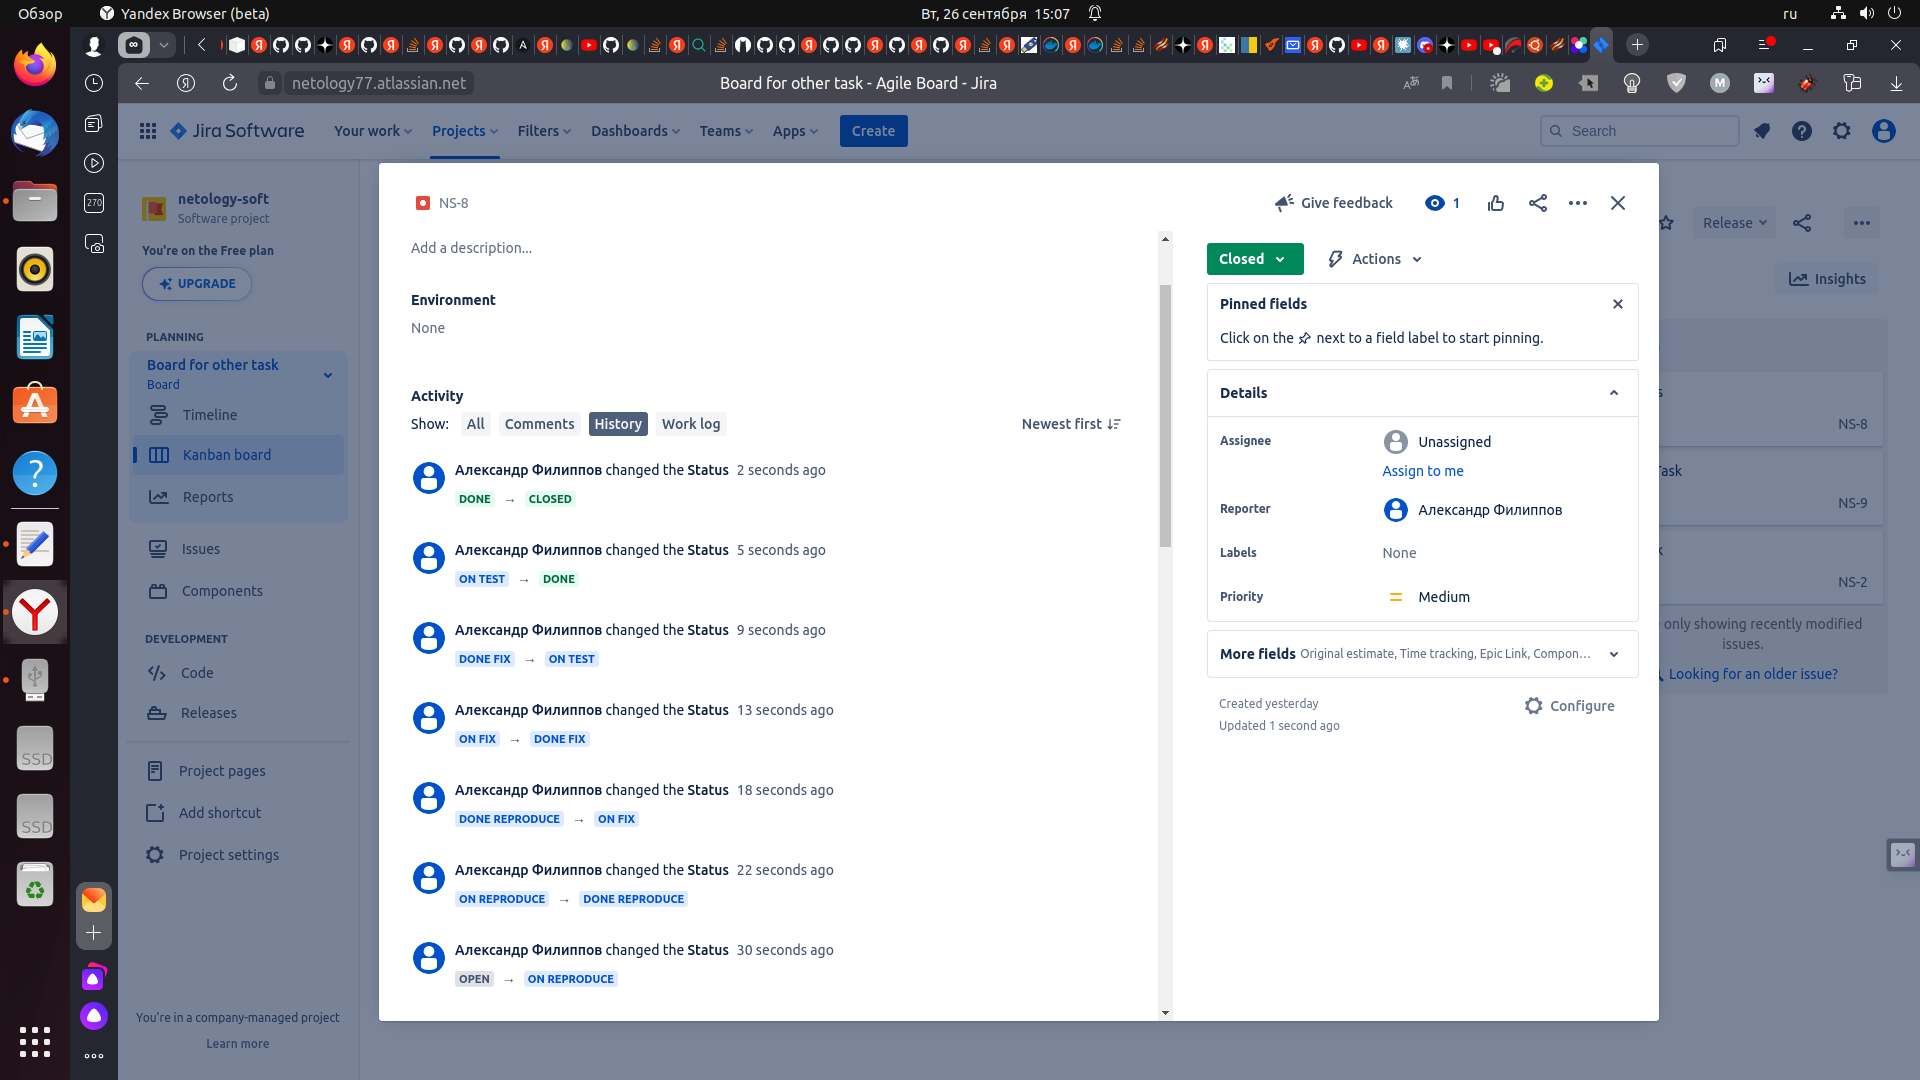
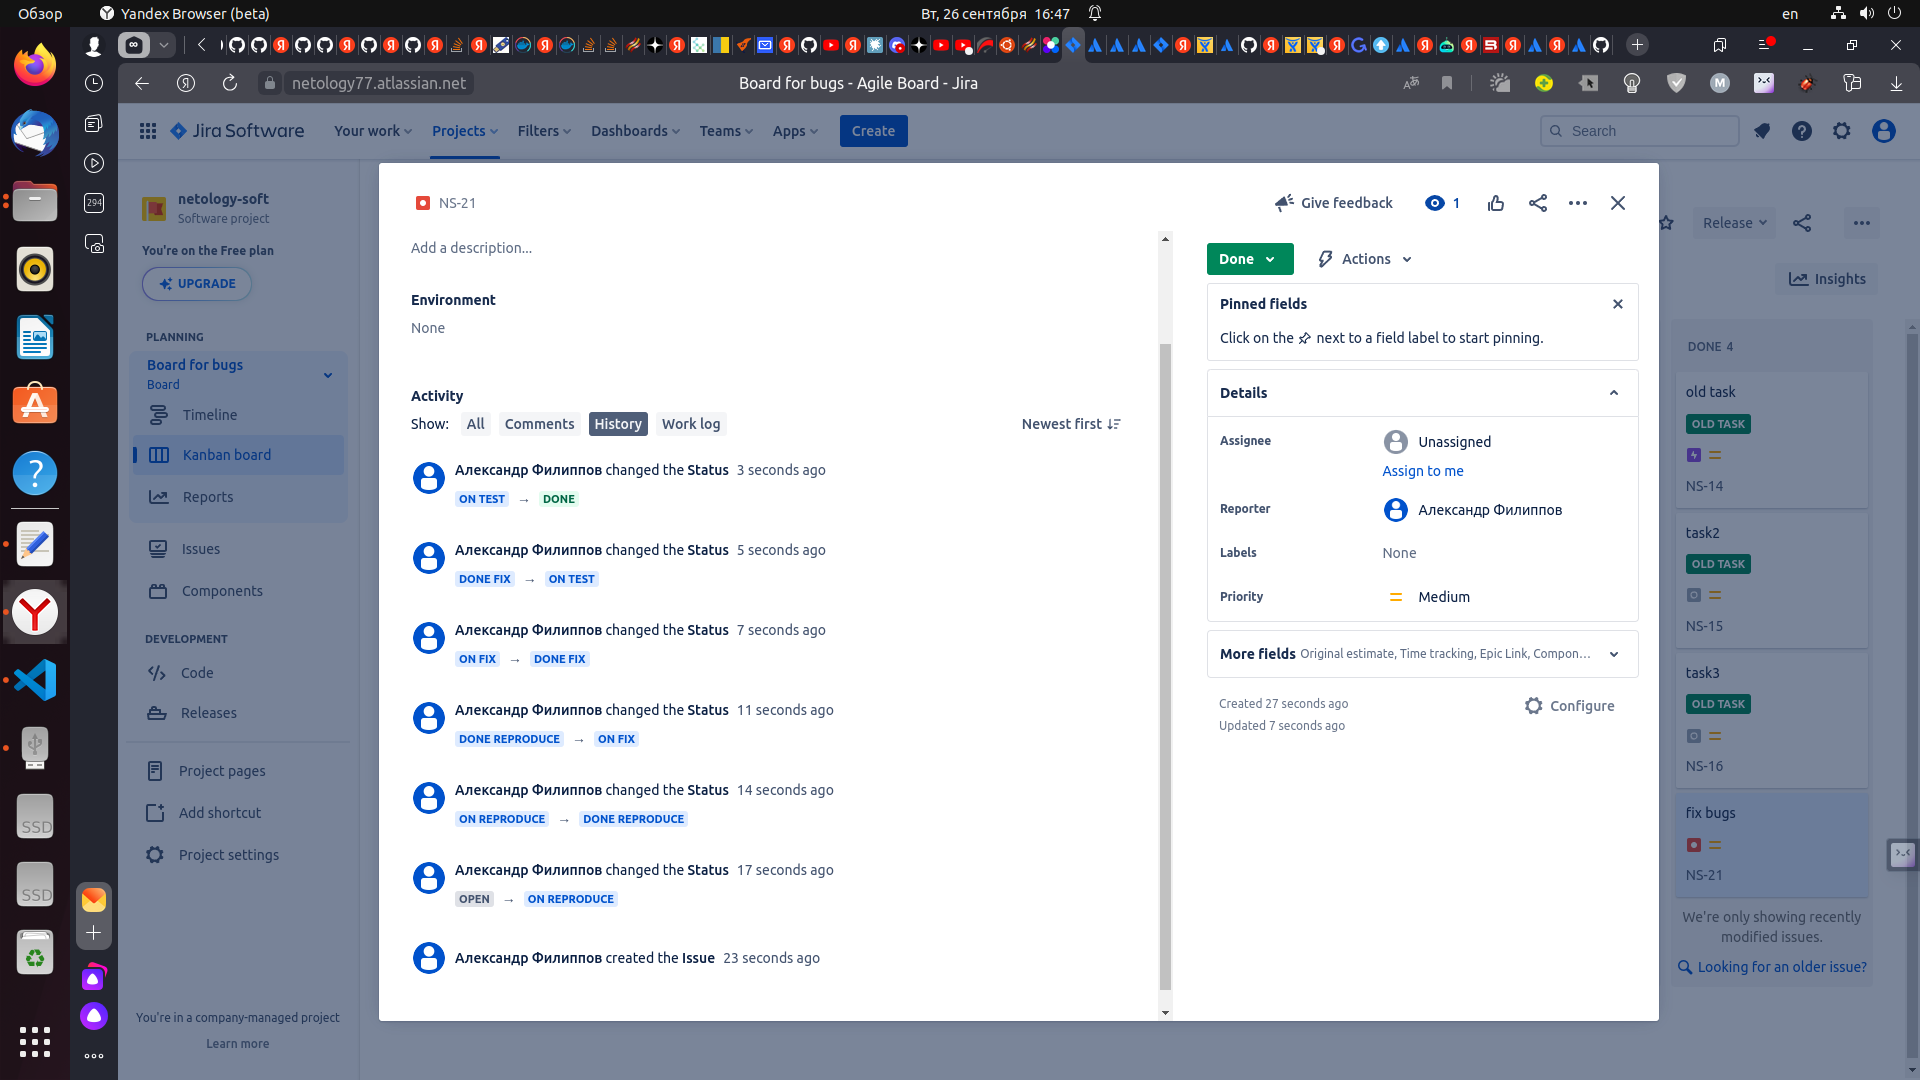
jira2

diff --git a/09-ci-01-intro/README.md b/09-ci-01-intro/README.md
@@ -98,6 +98,10 @@
   <img width="1200" height="600" src="./image/epic4.png">
 </p>
 
+10. Возвращаем задачи в статус Open.
+<p align="center">
+  <img width="1200" height="600" src="./image/back.png">
+</p>
 ---
 
 ### Как оформить решение задания
